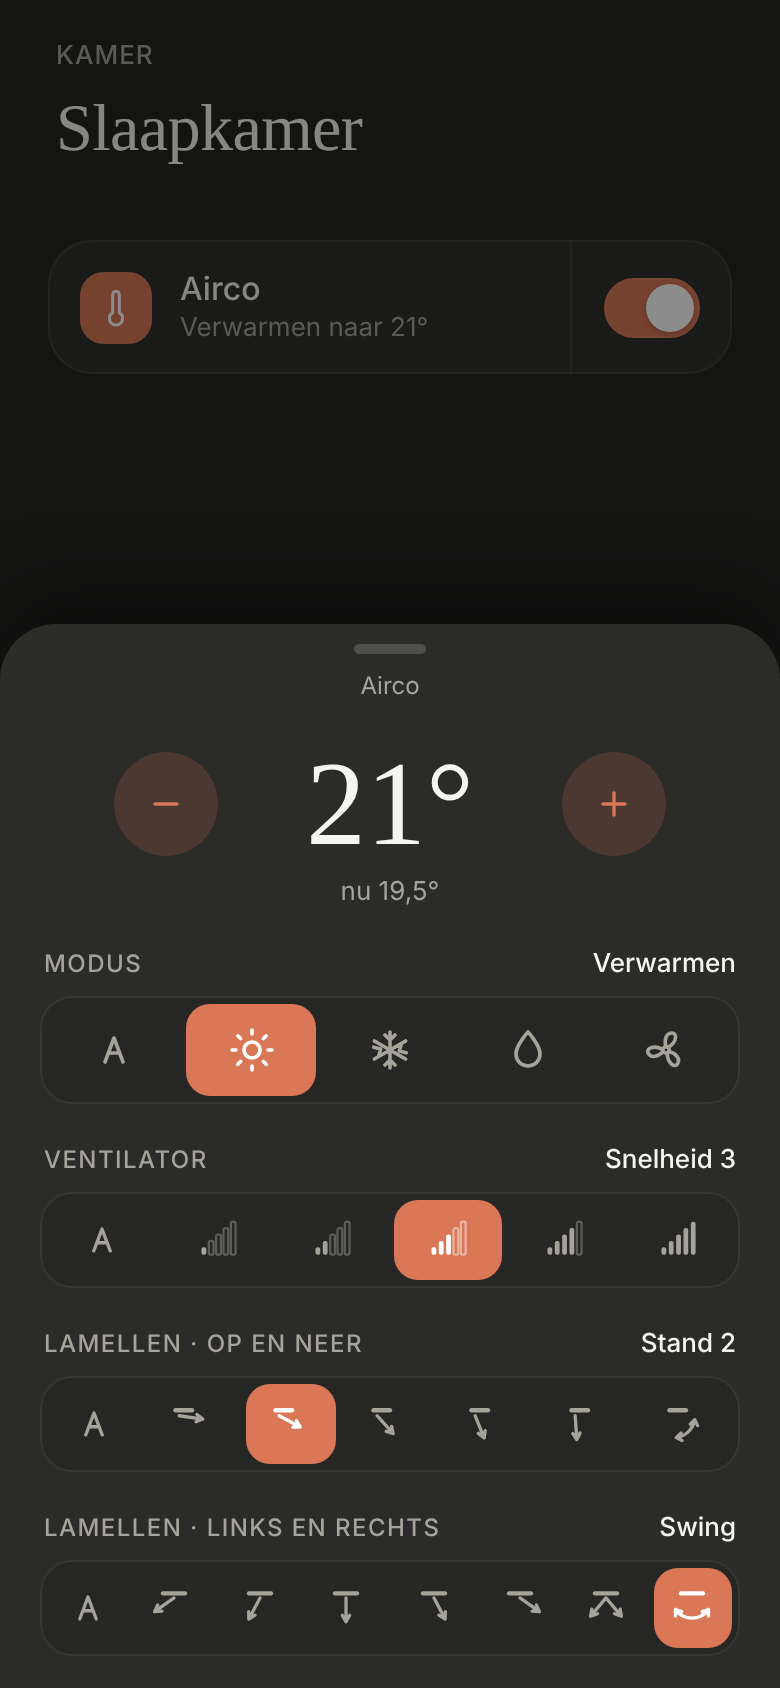
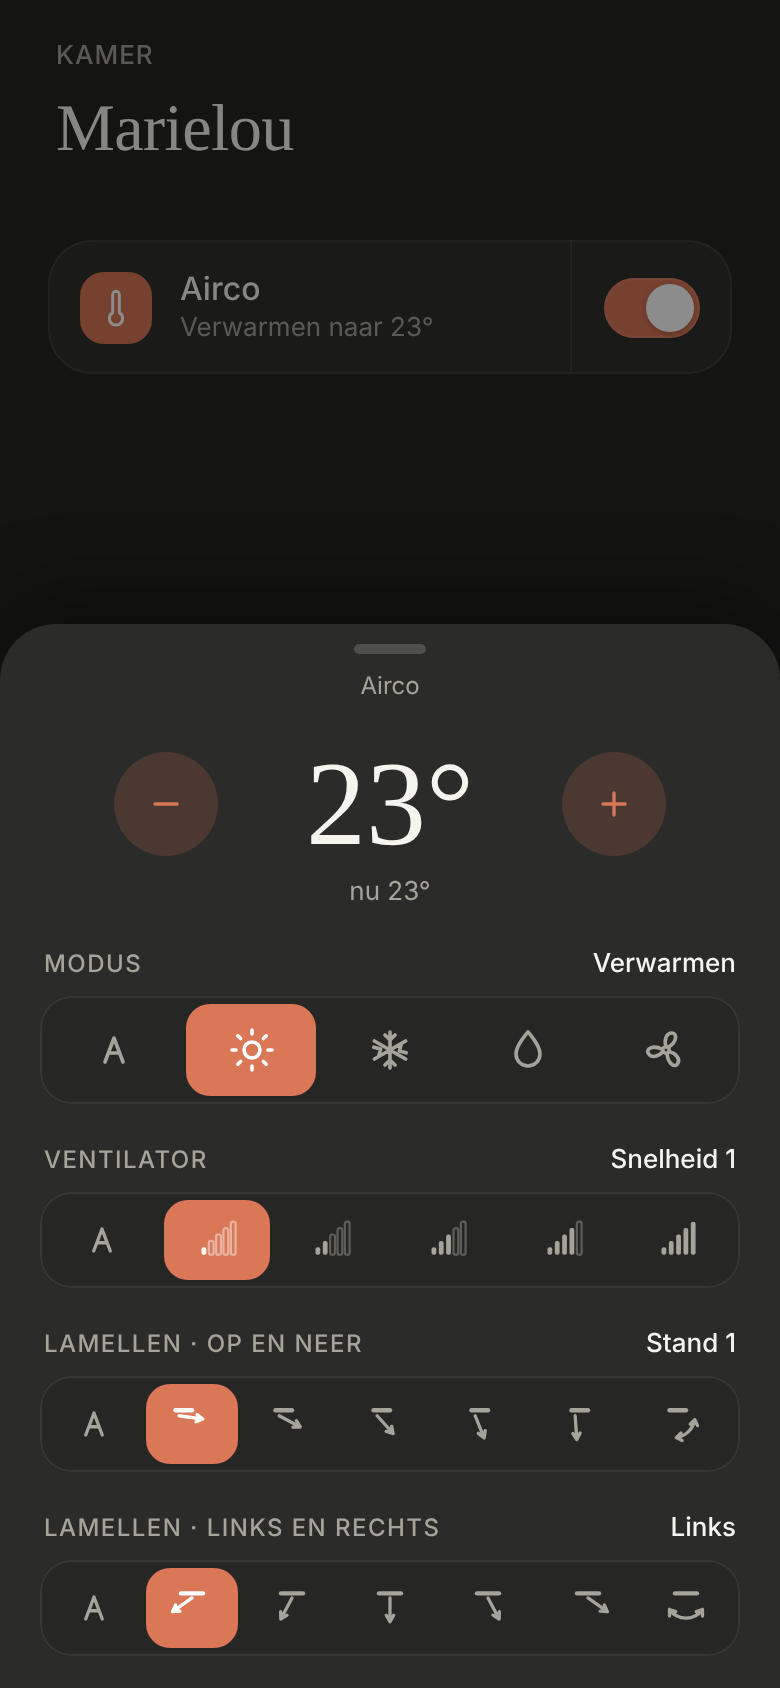
Airco: the unit's real fan and vane values, left and right via swing_horizontal_mode
Claude-Session: https://claude.ai/code/session_01KM6EwXvT22zbGn1J5Xot1E

diff --git a/src/lib/airco.ts b/src/lib/airco.ts
@@ -23,37 +23,32 @@ const AIRCO_MODES: AircoOption[] = [
 
 const FAN_SPEEDS: AircoOption[] = [
   { value: 'auto', name: 'Auto', icon: 'auto' },
-  { value: '1', name: 'Snelheid 1', icon: 'fanSpeed1' },
-  { value: '2', name: 'Snelheid 2', icon: 'fanSpeed2' },
-  { value: '3', name: 'Snelheid 3', icon: 'fanSpeed3' },
-  { value: '4', name: 'Snelheid 4', icon: 'fanSpeed4' },
-  { value: '5', name: 'Snelheid 5', icon: 'fanSpeed5' },
+  { value: 'speed_1', name: 'Snelheid 1', icon: 'fanSpeed1' },
+  { value: 'speed_2', name: 'Snelheid 2', icon: 'fanSpeed2' },
+  { value: 'speed_3', name: 'Snelheid 3', icon: 'fanSpeed3' },
+  { value: 'speed_4', name: 'Snelheid 4', icon: 'fanSpeed4' },
+  { value: 'speed_5', name: 'Snelheid 5', icon: 'fanSpeed5' },
 ];
 
-/** MELCloud may call the outer positions "1_up" and "5_down"; both spellings are listed. */
+/** `swing_modes`: position 1 blows straight out, 5 straight down. */
 const UP_DOWN_POSITIONS: AircoOption[] = [
   { value: 'auto', name: 'Auto', icon: 'auto' },
-  { value: '1', name: 'Stand 1', icon: 'vaneUpDown1' },
-  { value: '1_up', name: 'Stand 1', icon: 'vaneUpDown1' },
-  { value: '2', name: 'Stand 2', icon: 'vaneUpDown2' },
-  { value: '3', name: 'Stand 3', icon: 'vaneUpDown3' },
-  { value: '4', name: 'Stand 4', icon: 'vaneUpDown4' },
-  { value: '5', name: 'Stand 5', icon: 'vaneUpDown5' },
-  { value: '5_down', name: 'Stand 5', icon: 'vaneUpDown5' },
+  { value: 'position_1', name: 'Stand 1', icon: 'vaneUpDown1' },
+  { value: 'position_2', name: 'Stand 2', icon: 'vaneUpDown2' },
+  { value: 'position_3', name: 'Stand 3', icon: 'vaneUpDown3' },
+  { value: 'position_4', name: 'Stand 4', icon: 'vaneUpDown4' },
+  { value: 'position_5', name: 'Stand 5', icon: 'vaneUpDown5' },
   { value: 'swing', name: 'Swing', icon: 'vaneUpDownSwing' },
 ];
 
-/** MELCloud may call the outer positions "1_left" and "5_right"; both spellings are listed. */
+/** `swing_horizontal_modes`, from far left to far right. */
 const LEFT_RIGHT_POSITIONS: AircoOption[] = [
   { value: 'auto', name: 'Auto', icon: 'auto' },
-  { value: '1', name: 'Stand 1', icon: 'vaneLeftRight1' },
-  { value: '1_left', name: 'Stand 1', icon: 'vaneLeftRight1' },
-  { value: '2', name: 'Stand 2', icon: 'vaneLeftRight2' },
-  { value: '3', name: 'Stand 3', icon: 'vaneLeftRight3' },
-  { value: '4', name: 'Stand 4', icon: 'vaneLeftRight4' },
-  { value: '5', name: 'Stand 5', icon: 'vaneLeftRight5' },
-  { value: '5_right', name: 'Stand 5', icon: 'vaneLeftRight5' },
-  { value: 'split', name: 'Split', icon: 'vaneLeftRightSplit' },
+  { value: 'left', name: 'Links', icon: 'vaneLeftRight1' },
+  { value: 'left_centre', name: 'Links-midden', icon: 'vaneLeftRight2' },
+  { value: 'centre', name: 'Midden', icon: 'vaneLeftRight3' },
+  { value: 'right_centre', name: 'Rechts-midden', icon: 'vaneLeftRight4' },
+  { value: 'right', name: 'Rechts', icon: 'vaneLeftRight5' },
   { value: 'swing', name: 'Swing', icon: 'vaneLeftRightSwing' },
 ];
 
@@ -139,13 +134,11 @@ export interface AircoSetting {
   hasTallerButtons?: boolean;
 }
 
-/** The options HA lists for this airco, in HA's order; values without an icon are left out. */
+/** The options HA lists for this airco, in the design's order (not HA's); values without an icon are left out. */
 function offeredOptions(airco: HassEntity, listAttribute: string, knownOptions: AircoOption[]): AircoOption[] {
   const valuesFromEntity = (airco.attributes[listAttribute] as string[] | undefined) ?? [];
 
-  return valuesFromEntity
-    .map((valueFromEntity) => knownOptions.find((knownOption) => knownOption.value === valueFromEntity))
-    .filter((knownOption): knownOption is AircoOption => knownOption !== undefined);
+  return knownOptions.filter((knownOption) => valuesFromEntity.includes(knownOption.value));
 }
 
 /**
@@ -155,13 +148,12 @@ function offeredOptions(airco: HassEntity, listAttribute: string, knownOptions: 
 export function aircoSettings(airco: HassEntity): AircoSetting[] {
   const target = aircoTarget(airco);
   const currentValue = (attribute: string) => airco.attributes[attribute] as string | undefined;
-  const modesFromEntity = (airco.attributes.hvac_modes as string[] | undefined) ?? [];
 
   return [
     {
       title: 'Modus',
-      // In the design's order, not HA's; "off" isn't one of them: that's the switch.
-      options: AIRCO_MODES.filter((aircoMode) => modesFromEntity.includes(aircoMode.value)),
+      // "off" isn't one of them: that's the switch.
+      options: offeredOptions(airco, 'hvac_modes', AIRCO_MODES),
       chosenValue: airco.state,
       choose: (hass, chosenMode) => hass.callService('climate', 'set_hvac_mode', { hvac_mode: chosenMode }, target),
       hasTallerButtons: true,
@@ -185,13 +177,12 @@ export function aircoSettings(airco: HassEntity): AircoSetting[] {
       },
     },
     {
-      // MELCloud only: not every unit has these (docs/design/airco-sheet).
       title: 'Lamellen · links en rechts',
-      options: offeredOptions(airco, 'vane_horizontal_positions', LEFT_RIGHT_POSITIONS),
-      chosenValue: currentValue('vane_horizontal'),
+      options: offeredOptions(airco, 'swing_horizontal_modes', LEFT_RIGHT_POSITIONS),
+      chosenValue: currentValue('swing_horizontal_mode'),
       choose: async (hass, chosenPosition) => {
         await turnOnIfOff(hass, airco);
-        return hass.callService('melcloud', 'set_vane_horizontal', { position: chosenPosition }, target);
+        return hass.callService('climate', 'set_swing_horizontal_mode', { swing_horizontal_mode: chosenPosition }, target);
       },
     },
   ];

diff --git a/src/dev/mockHass.ts b/src/dev/mockHass.ts
@@ -53,20 +53,18 @@ function baseStates(): HassEntities {
     // A MELCloud airco (docs/design/airco-sheet); the ID is the real one from src/config/rooms.ts.
     entity('climate.bedroom_marielou_airco', 'heat', {
       friendly_name: 'Airco',
-      hvac_modes: ['heat_cool', 'heat', 'cool', 'dry', 'fan_only', 'off'],
-      current_temperature: 19.5,
-      temperature: 21,
-      target_temp_step: 0.5,
+      hvac_modes: ['off', 'heat', 'cool', 'auto', 'dry', 'fan_only'],
+      current_temperature: 23,
+      temperature: 23,
       min_temp: 10,
       max_temp: 31,
-      fan_modes: ['auto', '1', '2', '3', '4', '5'],
-      fan_mode: '3',
-      swing_modes: ['auto', '1', '2', '3', '4', '5', 'swing'],
-      swing_mode: '2',
-      vane_horizontal: 'swing',
-      vane_horizontal_positions: ['auto', '1', '2', '3', '4', '5', 'split', 'swing'],
-      vane_vertical: '2',
-      vane_vertical_positions: ['auto', '1', '2', '3', '4', '5', 'swing'],
+      fan_modes: ['auto', 'speed_1', 'speed_2', 'speed_3', 'speed_4', 'speed_5'],
+      fan_mode: 'speed_1',
+      swing_modes: ['auto', 'swing', 'position_1', 'position_2', 'position_3', 'position_4', 'position_5'],
+      swing_mode: 'position_1',
+      swing_horizontal_modes: ['auto', 'swing', 'left', 'left_centre', 'centre', 'right_centre', 'right'],
+      swing_horizontal_mode: 'left',
+      supported_features: 937,
     }),
     entity('switch.koffiemachine', 'off', { friendly_name: 'Koffiemachine' }),
     entity('cover.rolluiken', 'closed', { friendly_name: 'Rolluiken' }),
@@ -254,8 +252,8 @@ export function createMockHass(onChange: (hass: HomeAssistant) => void) {
       else if (service === 'set_temperature') set(id, current === 'off' ? 'heat' : current, { temperature: data?.temperature });
       else if (service === 'set_hvac_mode') set(id, String(data?.hvac_mode));
       else if (service === 'set_fan_mode') set(id, current, { fan_mode: data?.fan_mode });
-      else if (service === 'set_swing_mode') set(id, current, { swing_mode: data?.swing_mode, vane_vertical: data?.swing_mode });
-      else if (service === 'set_vane_horizontal') set(id, current, { vane_horizontal: data?.position });
+      else if (service === 'set_swing_mode') set(id, current, { swing_mode: data?.swing_mode });
+      else if (service === 'set_swing_horizontal_mode') set(id, current, { swing_horizontal_mode: data?.swing_horizontal_mode });
       else if (service === 'media_play_pause')
         set(id, current === 'playing' ? 'paused' : 'playing', { media_position: positionNow(id), media_position_updated_at: stamp() });
       else if (service === 'media_seek') set(id, current, { media_position: data?.seek_position, media_position_updated_at: stamp() });

diff --git a/src/components/Icon.tsx b/src/components/Icon.tsx
@@ -268,12 +268,6 @@ const PATHS = {
       <path d="M12 6.5L22.6 14M18.6 13.7L22.6 14L20.9 10.4" />
     </>
   ),
-  vaneLeftRightSplit: (
-    <>
-      <path d="M6 4h12" className="icon__unit" />
-      <path d="M12 6.5L3.6 16.5M4.3 12.6L3.6 16.5L7.4 15.1M12 6.5L20.4 16.5M16.6 15.1L20.4 16.5L19.7 12.6" />
-    </>
-  ),
   vaneLeftRightSwing: (
     <>
       <path d="M6 4h12" className="icon__unit" />

diff --git a/docs/design/airco-sheet/README.md b/docs/design/airco-sheet/README.md
@@ -8,11 +8,11 @@ The airco gets the light approach: a row with a switch, and a sheet with everyth
 
 ![Design](./mockup.png)
 
-Source: [`mockup.html`](./mockup.html). As built (dev mode, a mock MELCloud airco):
+Source: [`mockup.html`](./mockup.html). As built (dev mode, a mock with the attributes of the airco in Marielou's room):
 
 ![Built](./built.png)
 
-All icons, with the value HA uses for each:
+All icons. *Decision during the build:* the real unit has no Split for left and right, so that icon was dropped; the values HA uses are listed above.
 
 ![Icons](./icons.png)
 
@@ -29,10 +29,10 @@ All icons, with the value HA uses for each:
 - **Target temperature:** large, with − and + in the airco's own step (`target_temp_step`, usually 0.5°), within `min_temp` and `max_temp`. It's sent once you stop tapping. "nu 19,5°" is shown below it.
 - **Four rows of icons.** Each row has its name on the left and the current choice on the right ("Verwarmen", "Snelheid 3", "Stand 2", "Swing"). The active icon is filled with the accent colour.
   - **Modus:** Auto, Verwarmen, Koelen, Drogen, Ventileren (`hvac_modes`, `climate.set_hvac_mode`).
-  - **Ventilator:** Auto, then 1–5 as signal bars (`fan_modes`, `climate.set_fan_mode`).
-  - **Lamellen · op en neer:** Auto, 1 (straight out) to 5 (straight down), Swing; seen from the side (`swing_modes`, `climate.set_swing_mode`).
-  - **Lamellen · links en rechts:** Auto, 1 (far left) to 5 (far right), Split, Swing; seen from above. MELCloud's `vane_horizontal_positions` and `melcloud.set_vane_horizontal`. Not every unit has this; to be checked on the real unit.
-- **Values MELCloud may spell differently:** "1_up"/"5_down" and "1_left"/"5_right" get the same icons as 1 and 5.
+  - **Ventilator:** Auto, then `speed_1`–`speed_5` as signal bars (`fan_modes`, `climate.set_fan_mode`).
+  - **Lamellen · op en neer:** Auto, `position_1` (straight out) to `position_5` (straight down), Swing; seen from the side (`swing_modes`, `climate.set_swing_mode`).
+  - **Lamellen · links en rechts:** Auto, `left`, `left_centre`, `centre`, `right_centre`, `right` (named Links … Rechts), Swing; seen from above (`swing_horizontal_modes`, `climate.set_swing_horizontal_mode`).
+- **The design's order**, whatever order HA lists them in: Auto first, Swing last.
 - **Only what the unit offers:** a mode or position HA doesn't list is left out, and a row with nothing left is hidden.
 - **Choosing something while the airco is off** turns it on.
 
